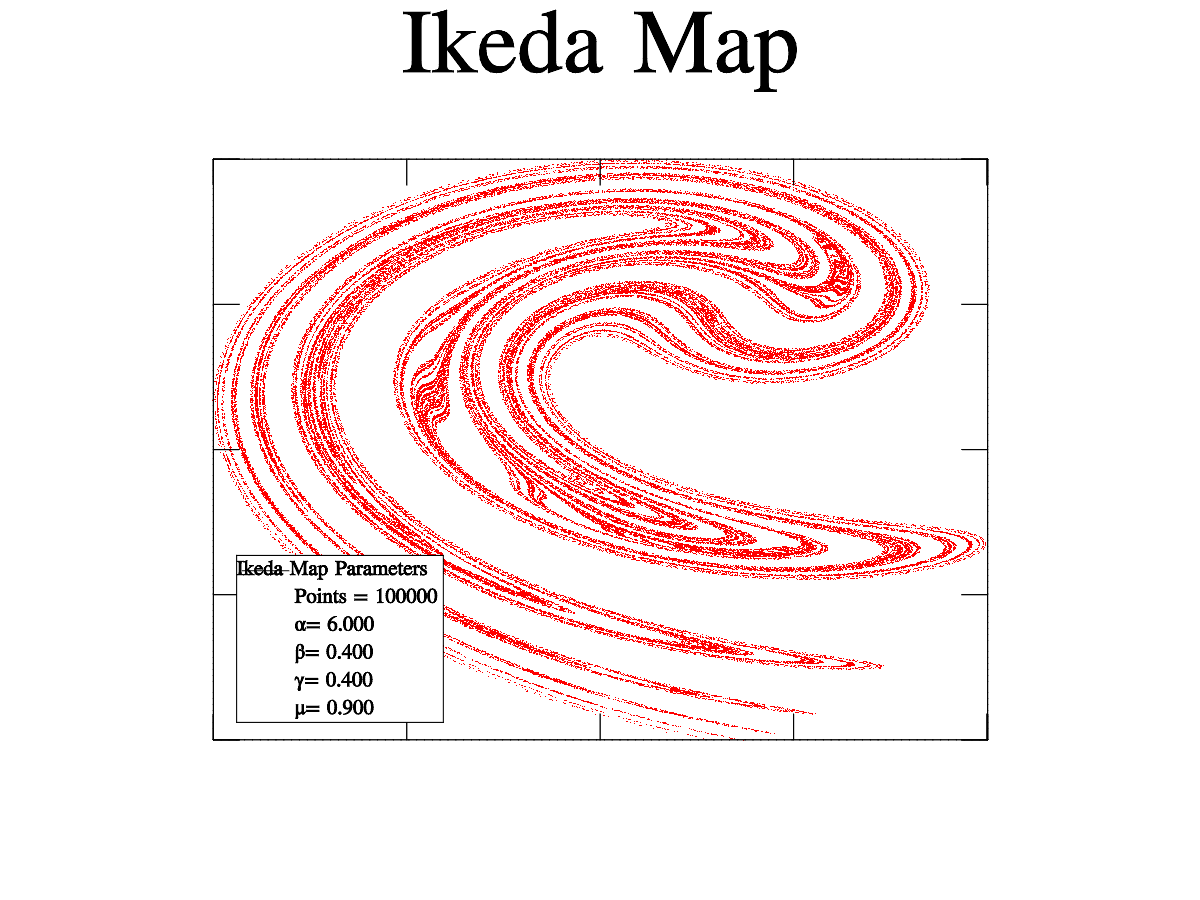
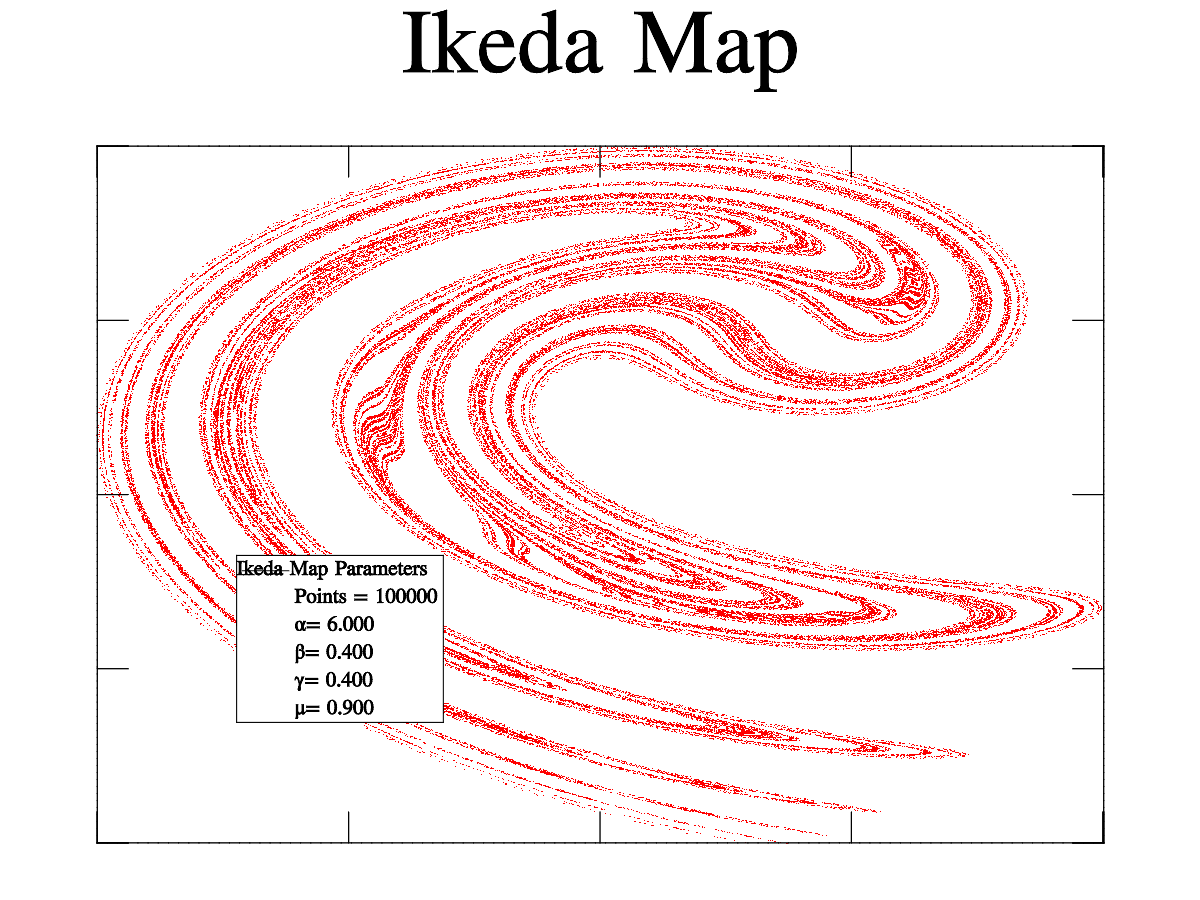
Graphics cappabilites improved- no more huge borders, no transparent PNG

diff --git a/3-Ikeda_map/ikeda_map.cpp b/3-Ikeda_map/ikeda_map.cpp
@@ -89,7 +89,7 @@ int main()
 	gr->Transparent=false;
 	gr->XRange(xdat);	gr->YRange(ydat); // for v.1.*
 //gr->SetRanges(xdat,ydat); // for v.2.*
-	gr->Box();
+
 	
 	gr->Alpha(false);
 	gr->Light(true);
@@ -98,17 +98,21 @@ int main()
 	
 // 	gr->AddLegend(parametros,"b");
 	
-	gr->AddLegend(parametrou," ");
+	gr->AddLegend(parametrou," "); // Adding legend tags.
 	gr->AddLegend(parametrog," ");
 	gr->AddLegend(parametrob," ");
 	gr->AddLegend(parametroa," ");
 	gr->AddLegend(parametrop," ");
 	gr->AddLegend("Ikeda Map Parameters","");
-	gr->Legend(0,0,2.3);
+	gr->Legend(0,0,2.3); //put the legend in 0,0, wiht font size 2.3
+	
+	gr->SubPlot(1,1,0,"^"); // Reserve aditional space only on the upper side  Default value is "<>_^" 
+	
+	gr->Box(); // The bounding box. Note that putting this on a line before SubPlot will give an unbounded graph (box undersized)
 	
 	gr->Plot(xdat,ydat,"r#o "); 
     //~~~~~~~~~~~~~~~~~~~~~~~~~~~~~~~~~~~~~
-	gr->WritePNG("ikeda-mgl.png");
+	gr->WritePNG("ikeda-mgl.png","",false);
 	delete gr;
     return 0;
 /*	
